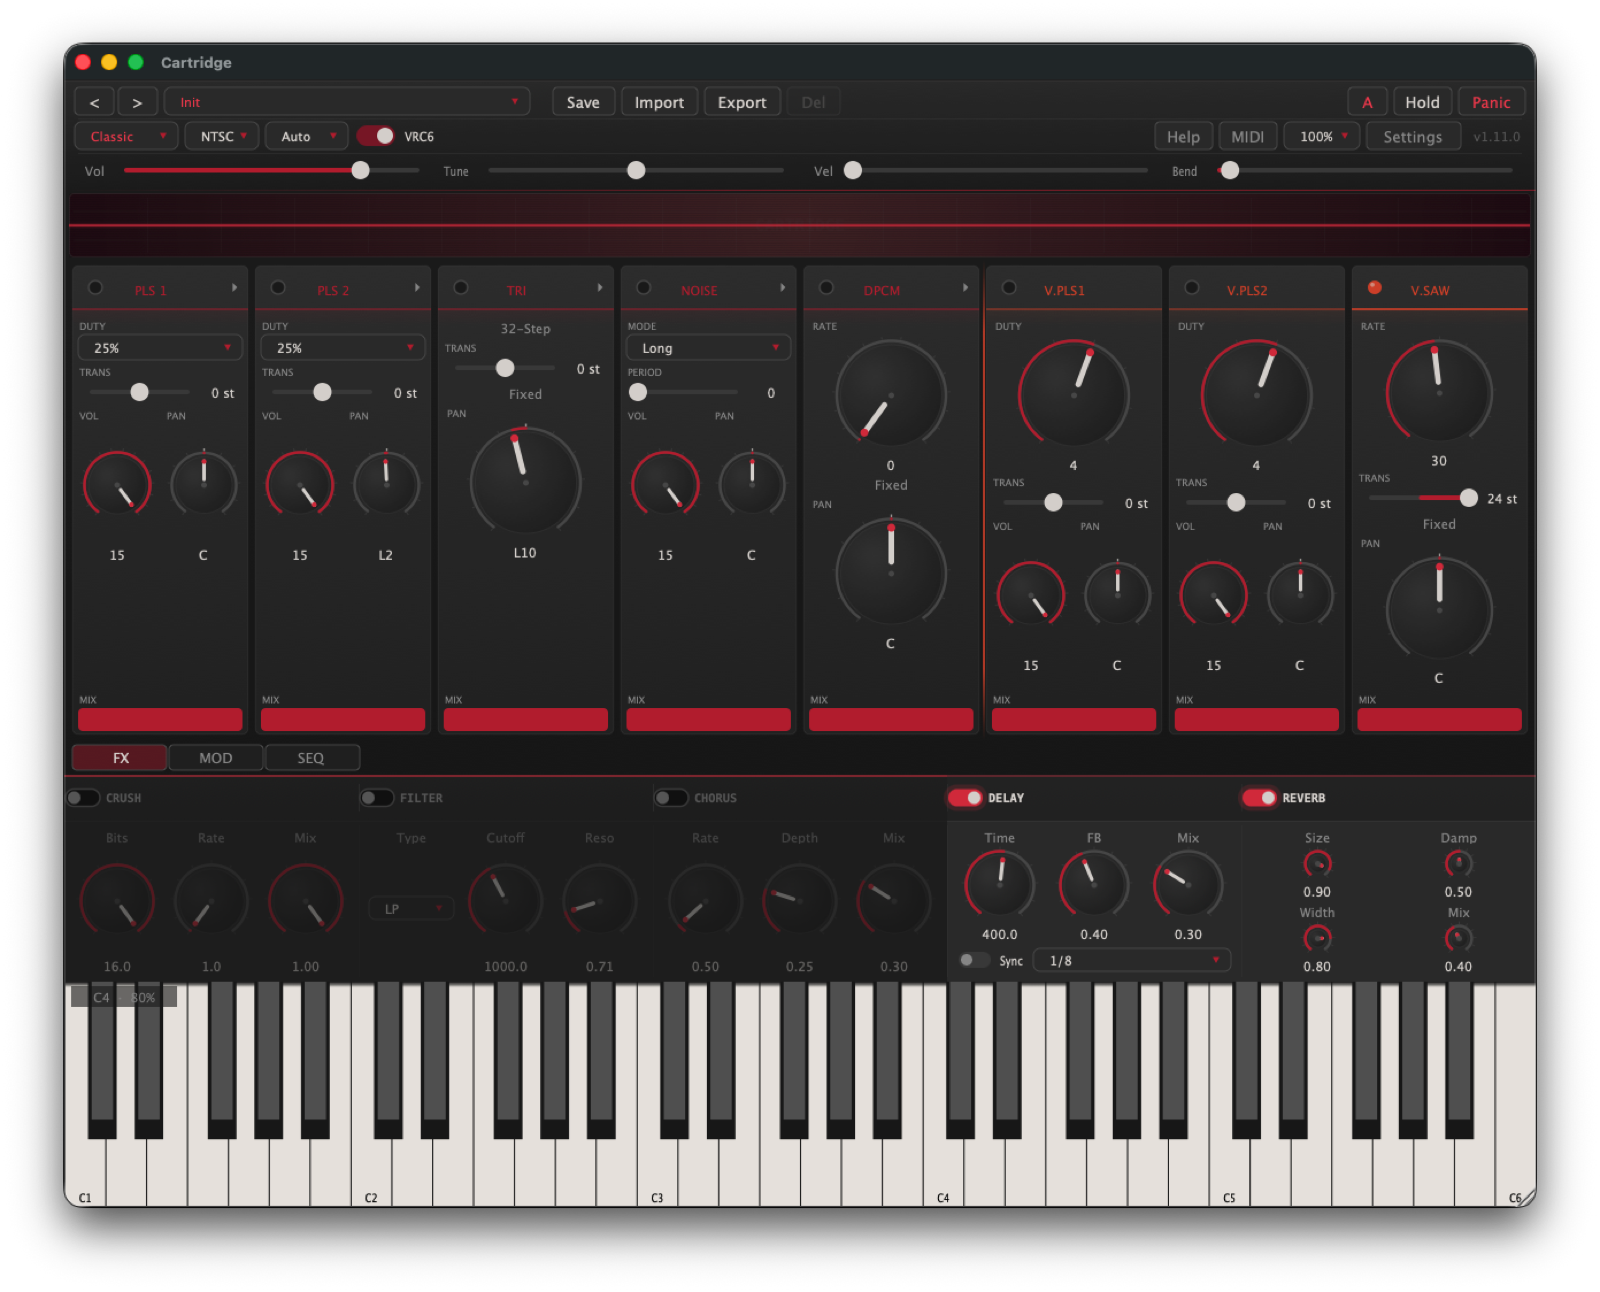
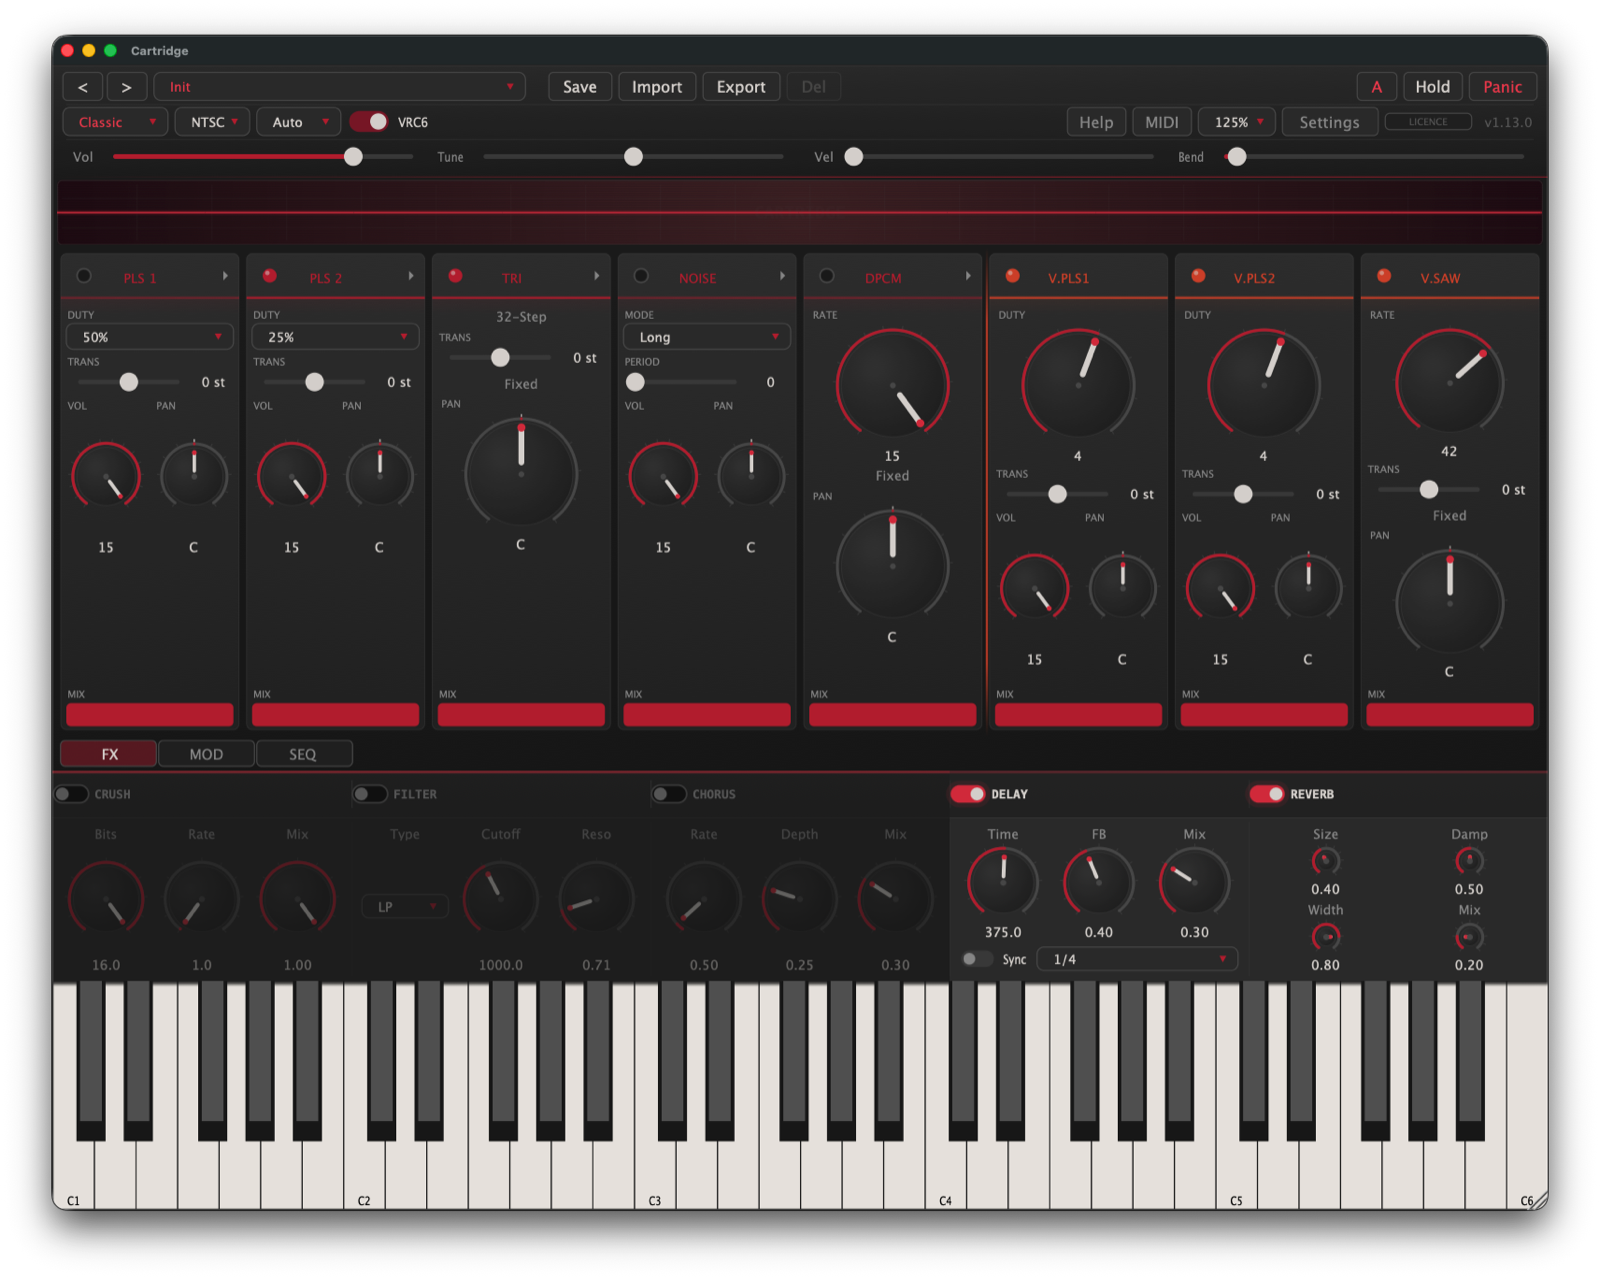
cartridge: v1.13.0 screenshots + install/activation guide
Refresh all product screenshots from the v1.13.0 build (licence badge,
no QWERTY chip) and add /cartridge/install.html covering install paths
per OS, licence activation, and seat management. lemonsqueezy/ holds the
1600x1200 store variants.

diff --git a/public/cartridge/install.html b/public/cartridge/install.html
@@ -1,0 +1,98 @@
+<!DOCTYPE html>
+<html lang="en">
+<head>
+  <meta charset="UTF-8">
+  <meta name="viewport" content="width=device-width, initial-scale=1.0">
+  <title>Cartridge — Install &amp; Activate</title>
+  <meta name="description" content="How to install Cartridge (VST3, AU, CLAP, Standalone) on macOS, Windows, and Linux, and activate it with your licence key.">
+  <meta name="robots" content="noindex, nofollow, noarchive, nosnippet, noimageindex">
+  <link rel="stylesheet" href="../style.css">
+  <link rel="stylesheet" href="style.css">
+</head>
+<body>
+
+<header class="label-bar">
+  <a class="wordmark" href="/">STAY COOL <span class="ampersand">&amp;</span> STAY COOL</a>
+  <nav>
+    <a href="/cartridge/">Cartridge</a>
+    <a href="/#products">Products</a>
+    <a href="/#about">About</a>
+    <a href="mailto:support@staycoolandstaycool.com">Contact</a>
+  </nav>
+</header>
+
+<header class="topbar">
+  <div class="brand">
+    <span class="cart-logo">●</span>
+    <span class="brand-name">CARTRIDGE</span>
+    <span class="brand-tag">SETUP GUIDE</span>
+  </div>
+  <nav>
+    <a href="#install">Install</a>
+    <a href="#activate">Activate</a>
+    <a href="#seats">Moving machines</a>
+    <a href="#help">Help</a>
+  </nav>
+</header>
+
+<section id="install" class="faq">
+  <h2>Install</h2>
+  <p class="section-lede">Your download is a zip with every plugin format inside. Unzip it, then copy the formats you use into place. When in doubt, install VST3 and the standalone app.</p>
+
+  <div class="faq-list">
+    <details open>
+      <summary>macOS</summary>
+      <p>Copy each bundle to the folder for its format, then restart your DAW:</p>
+      <ul>
+        <li><strong>Cartridge.app</strong> (standalone) → <code>/Applications</code></li>
+        <li><strong>Cartridge.component</strong> (AU) → <code>/Library/Audio/Plug-Ins/Components</code></li>
+        <li><strong>Cartridge.vst3</strong> → <code>/Library/Audio/Plug-Ins/VST3</code></li>
+        <li><strong>Cartridge.clap</strong> → <code>/Library/Audio/Plug-Ins/CLAP</code></li>
+      </ul>
+      <p>The build is signed and notarised, so macOS opens it without warnings. If your DAW doesn't see the AU right away, Logic and GarageBand sometimes need a full quit and relaunch to rescan.</p>
+    </details>
+
+    <details>
+      <summary>Windows</summary>
+      <ul>
+        <li><strong>Cartridge.vst3</strong> → <code>C:\Program Files\Common Files\VST3</code></li>
+        <li><strong>Cartridge.clap</strong> → <code>C:\Program Files\Common Files\CLAP</code></li>
+        <li><strong>Cartridge.exe</strong> (standalone) → anywhere you like</li>
+      </ul>
+      <p>Rescan plugins in your DAW after copying.</p>
+    </details>
+
+    <details>
+      <summary>Linux</summary>
+      <ul>
+        <li><strong>Cartridge.vst3</strong> → <code>~/.vst3</code></li>
+        <li><strong>Cartridge.clap</strong> → <code>~/.clap</code></li>
+        <li><strong>Cartridge</strong> (standalone) → anywhere on your path</li>
+      </ul>
+    </details>
+  </div>
+</section>
+
+<section id="activate" class="faq">
+  <h2>Activate</h2>
+  <p class="section-lede">Your licence key arrives by email right after purchase, from licences@staycoolandstaycool.com. Check spam if it hasn't landed within a few minutes.</p>
+  <ol>
+    <li>Open Cartridge (any format) and click the <strong>DEMO</strong> badge in the top bar.</li>
+    <li>Paste your licence key and click <strong>Activate</strong>.</li>
+    <li>Done. Activation needs the internet once; after that the licence works fully offline.</li>
+  </ol>
+  <p>One licence covers up to <strong>3 machines</strong>. Activate on each machine the same way, with the same key.</p>
+</section>
+
+<section id="seats" class="faq">
+  <h2>Moving machines</h2>
+  <p class="section-lede">Retiring a computer or hit the 3-machine limit? Click the <strong>LICENCE</strong> badge on the old machine and choose <em>Deactivate</em>. That frees the seat so you can activate elsewhere. If the old machine is dead and you can't deactivate, write to support and we'll free it for you.</p>
+</section>
+
+<section id="help" class="faq">
+  <h2>Help</h2>
+  <p class="section-lede">Stuck on anything, or the key won't take? Email <a href="mailto:support@staycoolandstaycool.com">support@staycoolandstaycool.com</a> with your order number and we'll sort it out. The <a href="/cartridge/#faq">FAQ</a> covers system requirements and DAW compatibility.</p>
+</section>
+
+</body>
+</html>
